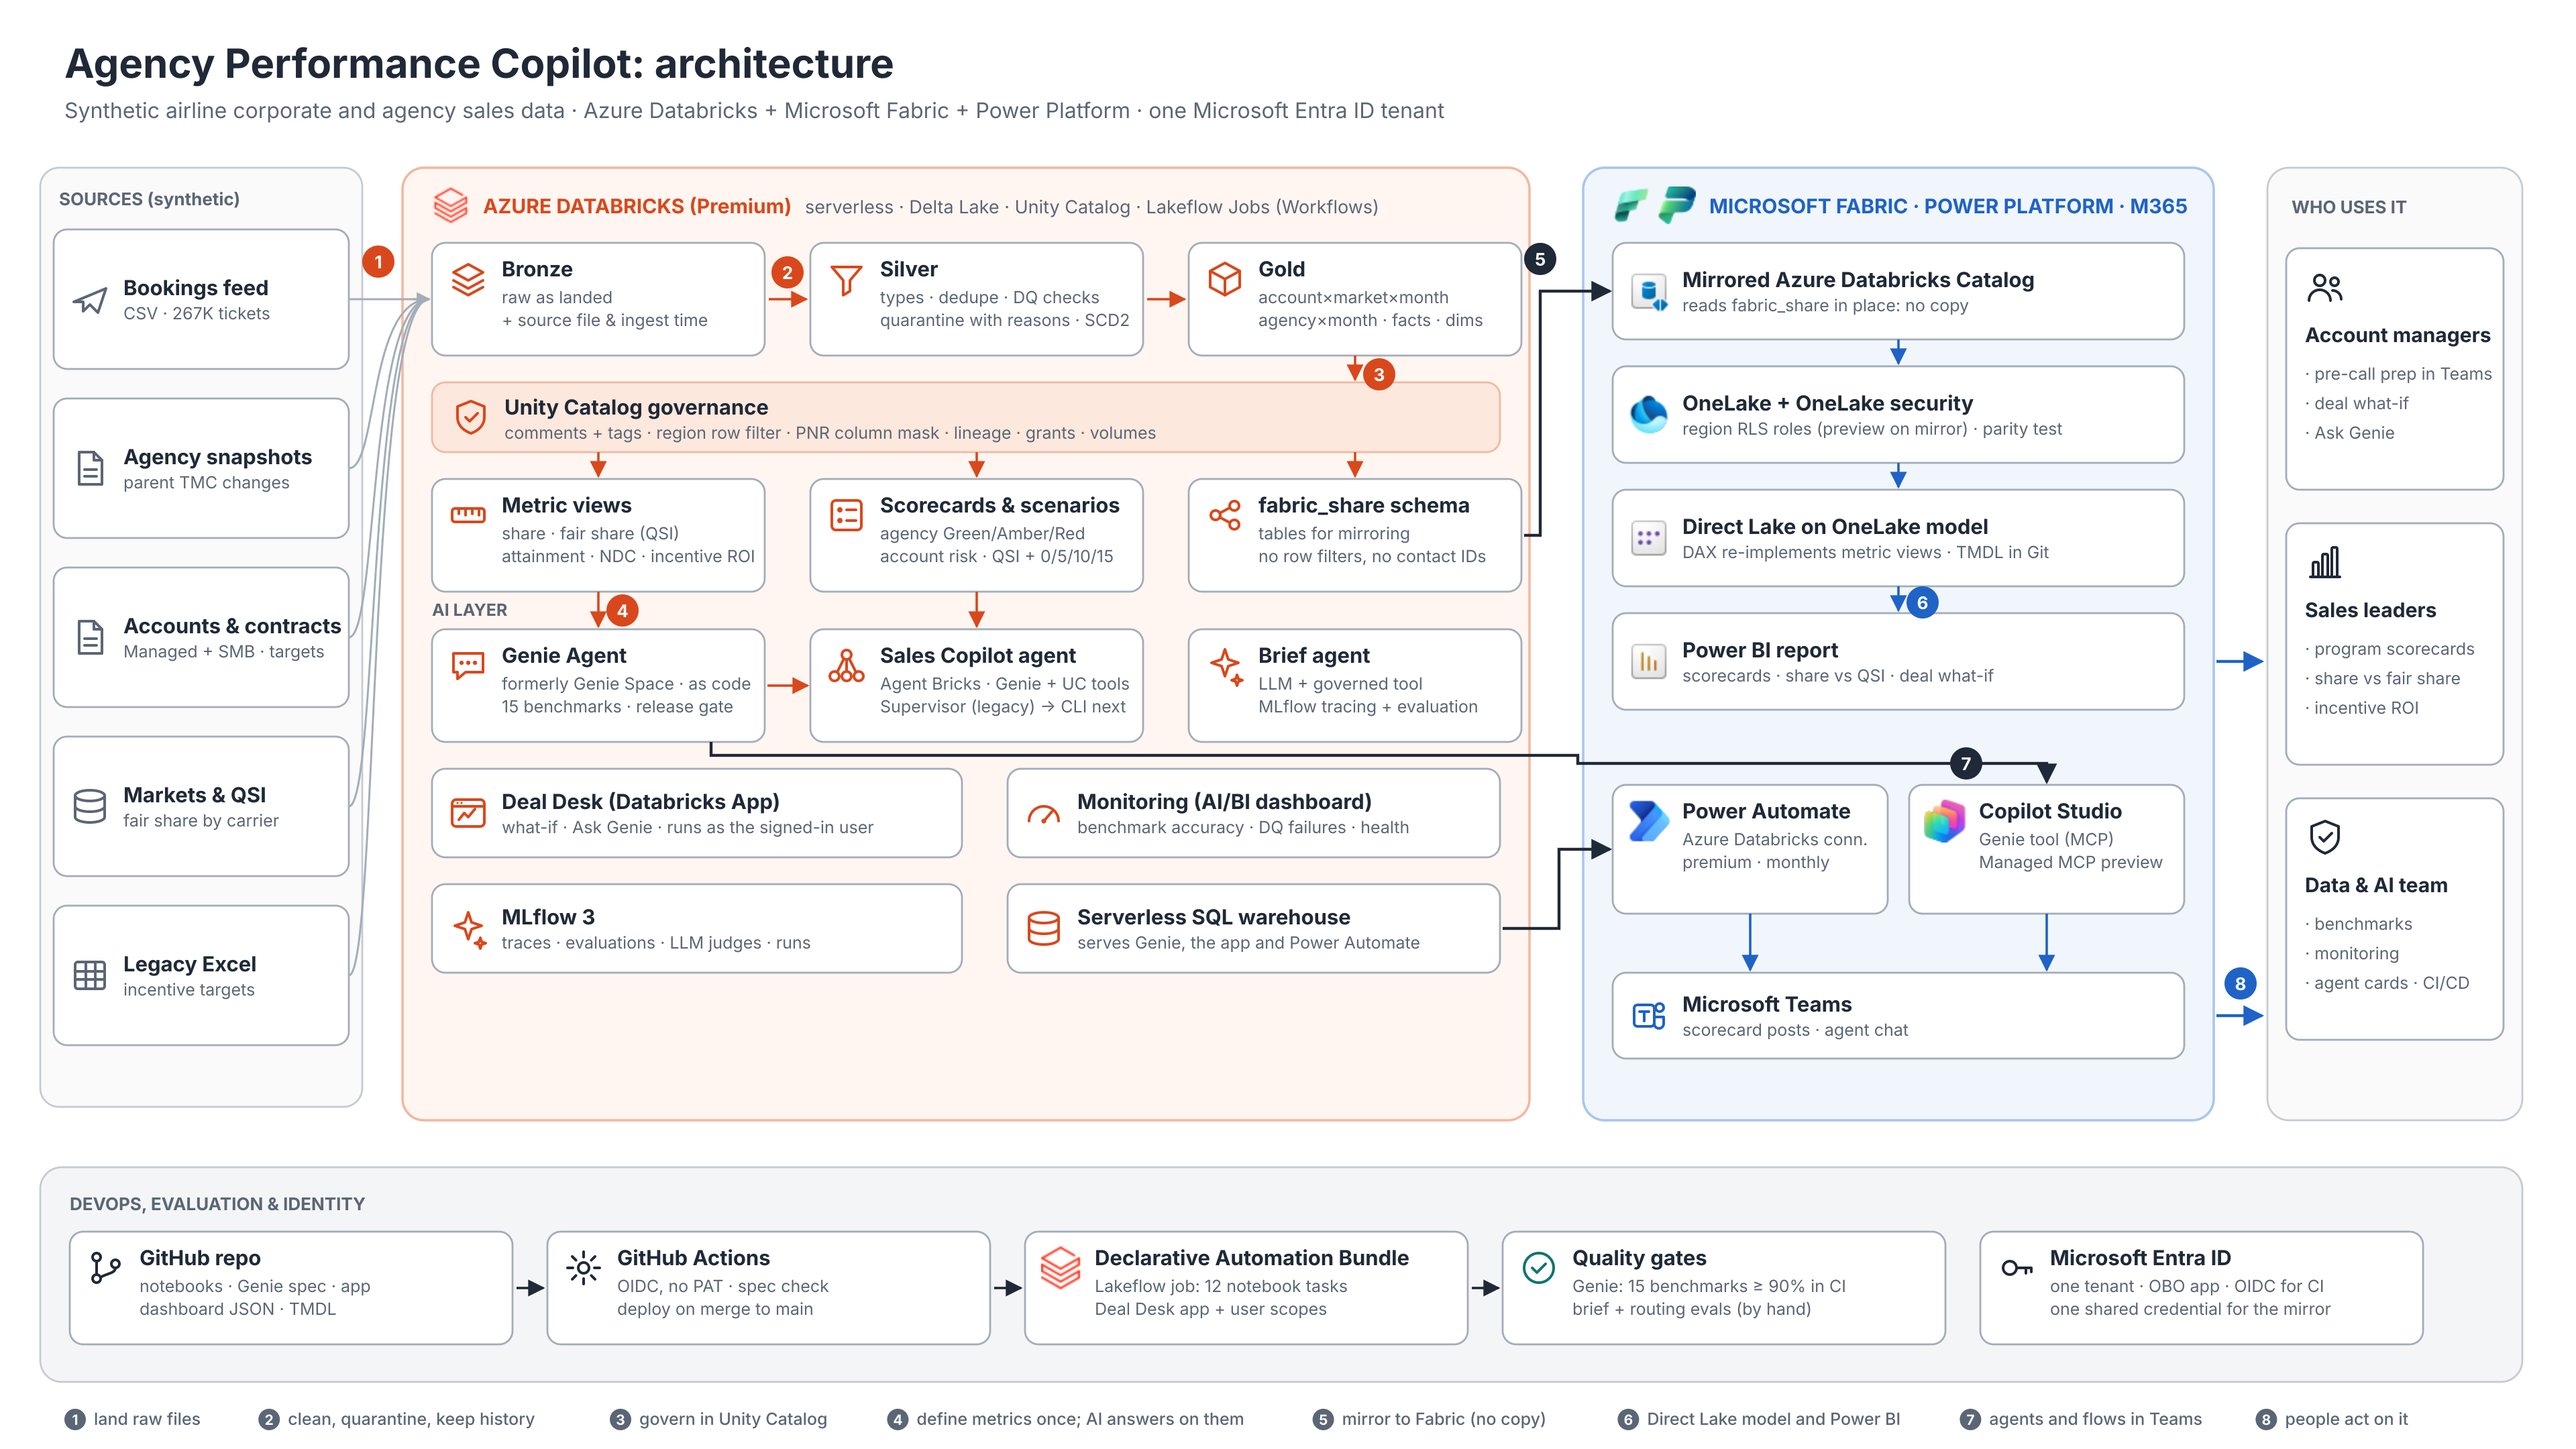
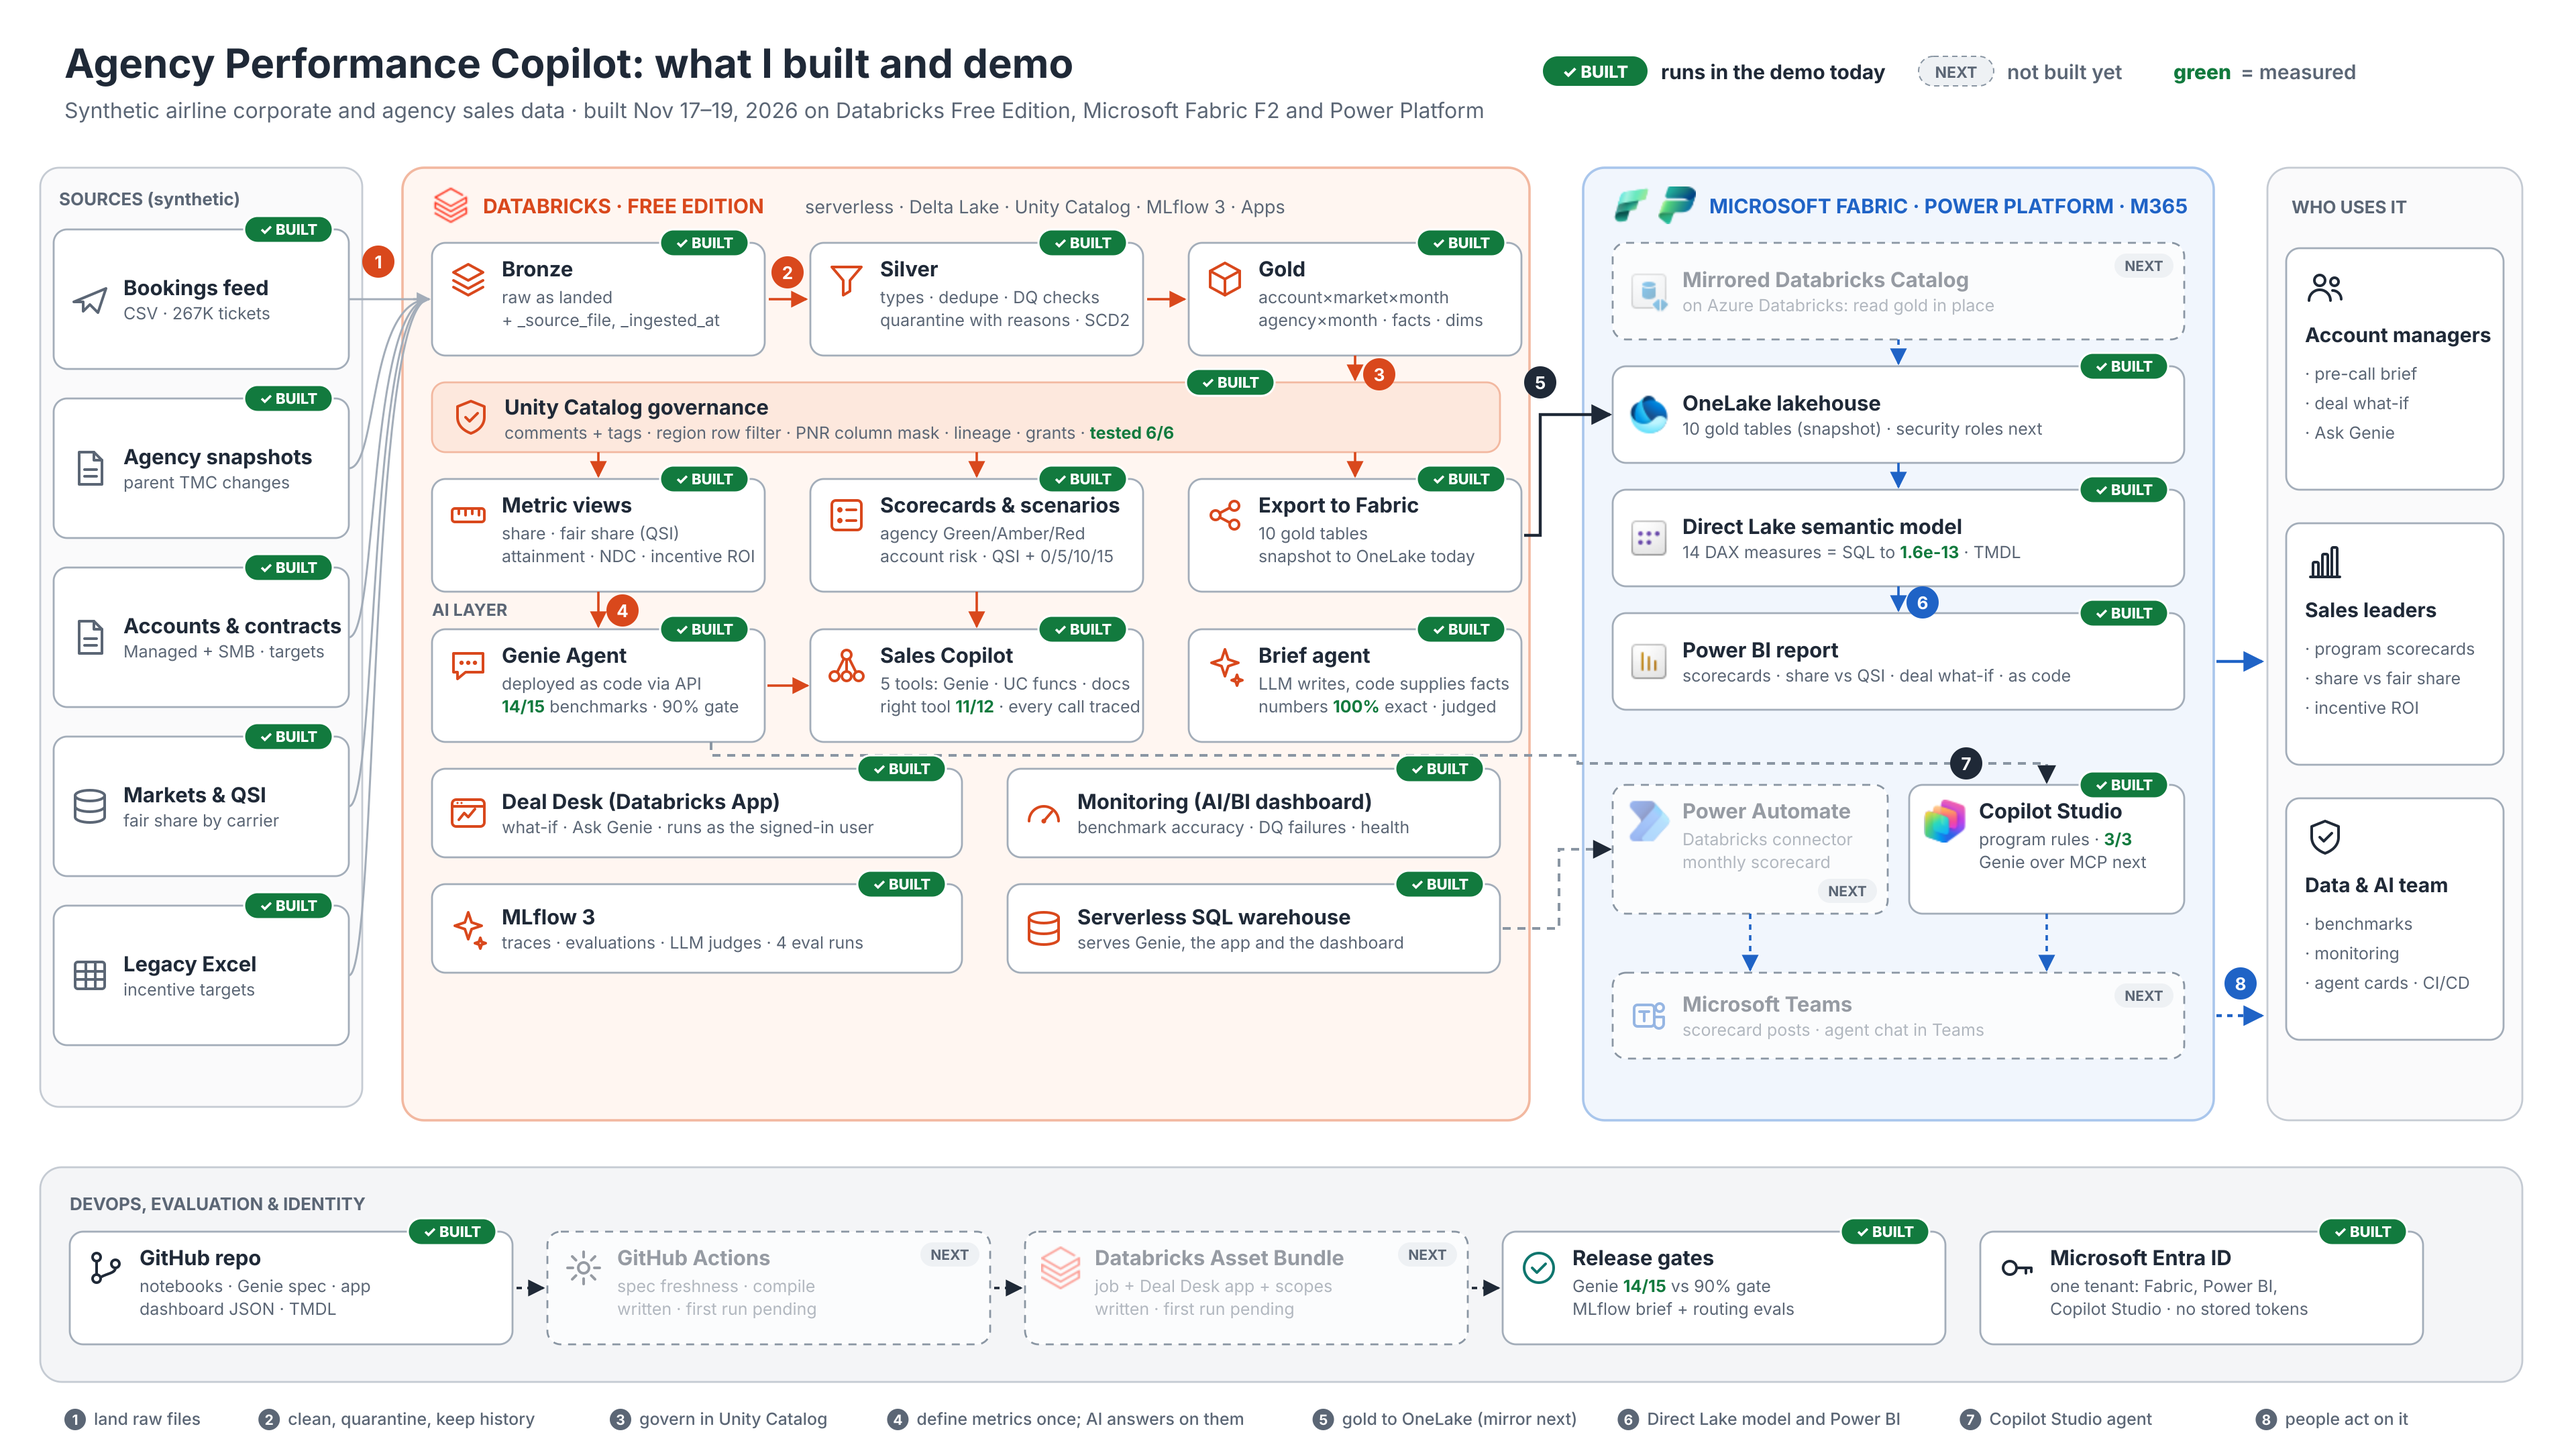
Final Commits

diff --git a/README.md b/README.md
@@ -1,8 +1,8 @@
 # Agency Performance Copilot
 
-**Governed AI and analytics for airline corporate and agency sales. Built and running on Databricks (Unity Catalog, metric views, Genie, MLflow, Apps); designed for Azure Databricks with Fabric, Power BI and Copilot Studio where account managers work.**
+**Governed AI and analytics for airline corporate and agency sales. Built and running on Databricks (Unity Catalog, metric views, Genie, MLflow, Apps); plus a Microsoft slice (Fabric, Power BI, Copilot Studio) where account managers work, designed to move to Azure Databricks.**
 
-**Status:** everything on Databricks runs today on Databricks Free Edition. The Fabric slice runs on a Fabric F2 capacity: OneLake lakehouse, a Direct Lake on OneLake semantic model built from code, DAX/SQL parity checked, TMDL exported. Agent Bricks, Copilot Studio connected to Genie, and Power Automate are designed with setup steps written, not deployed. See [What runs today](#what-runs-today).
+**Status:** everything on Databricks runs today on Databricks Free Edition. The Fabric slice runs on a Fabric F2 capacity: OneLake lakehouse, a Direct Lake on OneLake semantic model built from code, DAX/SQL parity checked, TMDL exported, a Power BI report formatted as code, and a Copilot Studio agent (3/3 tests). Agent Bricks, Copilot Studio connected to Genie, and Power Automate are designed with setup steps written, not deployed. See [What runs today](#what-runs-today).
 
 > All data in this project is synthetic and generated for demonstration. Company, agency and person names are invented. Competitor carriers are fictional (`XA`, `XB`). No American Airlines data is used.
 
@@ -44,9 +44,13 @@ CI/CD (written): Declarative Automation Bundle (Lakeflow job + app) · GitHub Ac
 | **Monitoring** | AI/BI dashboard created by API: accuracy per run, latest failures, data-quality failures, scorecard health | One place to answer "can we trust it?" |
 | **Sales Copilot agent** | Tool-calling agent (notebook 13) that routes each question to the Genie Agent, governed UC functions (account snapshot, contract what-if, agency status) or program documents; MLflow tracing; routing accuracy measured on 12 questions. Same supervisor pattern as an Agent Bricks Supervisor Agent, built in code so it runs on Free Edition | One assistant for account managers, with every number coming from a governed tool |
 | **Brief agent** | Tool-calling LLM drafts pre-call briefs from governed facts; MLflow 3 tracing and evaluation | Numbers checked by code, tone and grounding by LLM judges |
-| **Microsoft layer** | **Built as code:** gold tables in a OneLake lakehouse, a Direct Lake semantic model generated with semantic-link-labs, the metric views re-implemented in DAX with a parity check against SQL, TMDL export, Power BI report steps. **Designed:** mirrored Unity Catalog (no copy), OneLake security by region, Power Automate to Teams, Copilot Studio agent | Meets account managers in Power BI and Teams, with the same numbers as Genie |
+| **Microsoft layer** | **Built as code:** gold tables in a OneLake lakehouse, a Direct Lake semantic model generated with semantic-link-labs, the metric views re-implemented in DAX with a parity check against SQL, TMDL export, a Power BI report formatted as code, a Copilot Studio agent on the program documents. **Designed:** mirrored Unity Catalog (no copy), OneLake security by region, Power Automate to Teams, Copilot Studio calling Genie in Teams | Meets account managers in Power BI and Teams, with the same numbers as Genie |
 | **Deal Desk app** | Databricks App: contract what-if and Ask Genie; runs as the signed-in user so the row filter applies; per-user caching | The deal-modeling step of the corporate contract lifecycle |
 | **CI/CD** (written, not yet run against a workspace) | Declarative Automation Bundle, formerly Databricks Asset Bundle (Lakeflow job + app), GitHub Actions: spec freshness, compile, deploy, Genie gate | One-command deploy; quality gates on every change |
+
+![Architecture as built](docs/img/agency_copilot_architecture_official_icons.png)
+
+*As built: green ✓ BUILT tags mark what runs today (26 parts); faded, dashed boxes are next.*
 
 ![Target architecture](docs/img/architecture.png)
 
@@ -59,7 +63,7 @@ CI/CD (written): Declarative Automation Bundle (Lakeflow job + app) · GitHub Ac
 | Notebooks 01–10, Deal Desk app | Built and run on Databricks Free Edition |
 | Notebook 11 (documents, UC functions, routing set), 13 (Sales Copilot agent) | Built and run on Free Edition; routing 11/12 (92%) |
 | Notebook 14 (Lakeflow job created from code) | Built for Free Edition; first run pending |
-| Copilot Studio Program Rules Assistant (`microsoft/COPILOT_STUDIO_STEPS.md`) | **Built and tested** in a Developer environment billed pay-as-you-go to Azure: grounded only on the 4 program documents (web search and other tools removed). 3/3 test questions pass, including the guardrail (asked for Zhang PLC's attainment, it gives no number and points to Deal Desk / Genie). About 6–16 Copilot credits per answer ($0.01 each) |
+| Copilot Studio Program Rules Assistant (`microsoft/COPILOT_STUDIO_STEPS.md`) | **Built and tested** in a Developer environment billed pay-as-you-go to Azure: grounded only on the 4 program documents (web search and other tools removed). 3/3 test questions pass, including the guardrail (asked for Zhang PLC's attainment, it gives no number and points to Deal Desk / Genie). About 3–16 Copilot credits per answer ($0.01 each; the first answer in a chat costs the most) |
 | Fabric lakehouse + Direct Lake model (`fabric/01_load_gold_to_lakehouse.ipynb`) | Built and run on a Fabric F2 capacity (Azure): 10 tables in OneLake, Direct Lake on OneLake model with 14 DAX measures, DAX = SQL parity PASS (largest difference 1.6e-13), 12 TMDL files |
 | Agent Bricks Supervisor and Knowledge Assistant | Designed; needs Azure Databricks Premium |
 | Notebook 12 (`fabric_share` for a mirrored catalog), Copilot Studio connected to Genie, Power Automate | Designed; needs Azure Databricks and Power Platform |

diff --git a/docs/AGENT_CARD.md b/docs/AGENT_CARD.md
@@ -11,18 +11,18 @@
 | **Certified metrics** | See `METRIC_DICTIONARY.md` |
 | **Access model** | Runs as the asking user. Unity Catalog row filter by region; PNR masked; PNR excluded from the agent's tables |
 | **Evaluation** | 15 benchmark questions with verified SQL. Release bar: ≥ 90% (14/15) and no wrong numbers on the attainment questions (B2–B4, B14) |
-| **Latest score** | [X]/15 on [date] |
-| **Known limitations** | [Fill in from benchmark failures you couldn't fully fix, for example multi-period comparisons or ambiguous "share"] |
+| **Latest score** | 14/15 on 2026-11-18 (gate passed; first run was 9/15) |
+| **Known limitations** | B6 (agency revenue share by quarter) is open: in one run Genie divided revenue by itself, so every share read 100%. Genie is not deterministic, so every release re-runs all 15 benchmarks. Harder window-function questions (filter-vs-window order, off-by-one periods) stay with an analyst or get a reviewed example query |
 | **Monitoring** | Genie Monitoring tab reviewed weekly; new question types added as benchmarks |
 | **Owner** | Jayant Jaishwin Shanmugam Kavitha |
 | **Version** | 1.0 |
-| **Next review** | [date + 30 days] |
+| **Next review** | 2026-12-18 |
 
 ## Change log
 
 | Date | Change | Benchmark before → after |
 |---|---|---|
-| [date] | Initial release | – → [X]/15 |
+| 2026-11-18 | Initial release (deployed as code), then benchmark fixes and two written definitions | – → 9/15 → 14/15 |
 
 ---
 
@@ -31,7 +31,7 @@
 | Field | Value |
 |---|---|
 | **Purpose** | Draft a short pre-call brief for an account manager: where the account stands, watch-outs, 2–3 talking points |
-| **Intended users** | Account managers (internal), via Copilot Studio in Teams and the Deal Desk app |
+| **Intended users** | Account managers (internal), via the Sales Copilot; Copilot Studio in Teams is planned |
 | **Not for** | Sending to customers; contract or pricing decisions without human review |
 | **Risk tier** | Low–medium: internal, but generated text could state a wrong number. Briefs are labelled "AI-drafted, review before use" |
 | **Design** | One tool (`get_account_facts`) returns pre-computed, formatted facts from `gold.account_scorecard`. The LLM writes from those facts only and does no arithmetic |
@@ -39,6 +39,6 @@
 | **Tracing** | MLflow 3: every tool call and LLM call traced (`@mlflow.trace`, OpenAI autolog) |
 | **Evaluation** | 20 accounts (8 At risk, 6 Watch, 6 On track). Code scorers: key numbers exact, under word limit. LLM judges: grounded in facts, professional tone |
 | **Release bar** | Key numbers exact = 100%; under word limit ≥ 95%; judges ≥ 90% |
-| **Latest score** | [X] / [Y] / [Z] on [date] |
+| **Latest score** | Run 4, 2026-11-18: key numbers exact 100% · no invented numbers 95% (one brief computed a gap itself; fix: add the gap as a certified fact, not yet re-run) · word limit 100% · judges 100% |
 | **Owner** | Jayant Jaishwin Shanmugam Kavitha |
 | **Version** | 1.0 |

diff --git a/microsoft/COPILOT_STUDIO_STEPS.md b/microsoft/COPILOT_STUDIO_STEPS.md
@@ -12,7 +12,7 @@
 | What is Zhang PLC's contract attainment? | PASS (guardrail): no number; points to the Deal Desk app or Genie Agent |
 | What happens when an agency misses its incentive target? | PASS: Green/Amber/Red bands; first Red quarter → action plan; second → incentive rate reviewed |
 
-Cost: about 6–16 Copilot credits per answer at $0.01 per credit. To stop billing, delete the billing plan in the Power Platform admin center (Licensing → Billing plans).
+Cost: about 3–16 Copilot credits per answer at $0.01 per credit (16.2 credits for the first answer in a chat, about 3 for each answer after). To stop billing, delete the billing plan in the Power Platform admin center (Licensing → Billing plans).
 
 **Stop rule:** if the Copilot Studio trial won't start within 15 minutes, stop.
 

diff --git a/docs/EVAL_REPORT.md b/docs/EVAL_REPORT.md
@@ -93,7 +93,7 @@ Every run of notebook 09 (by hand, from the bundle job or from CI) appends 15 ro
 
 | Date | Spec version | Passed | What changed |
 |---|---|---|---|
-| [date] | [hash] | [ ]/15 | First automated run |
+| – | – | – | No automated run yet: the bundle job and CI are written, first run pending. Runs above were by hand |
 
 ---
 
